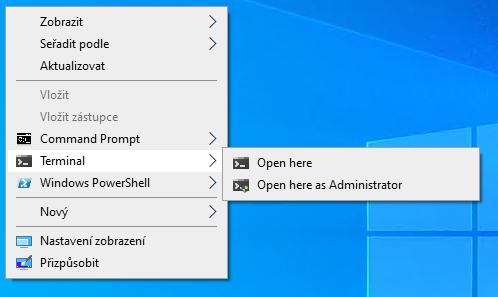
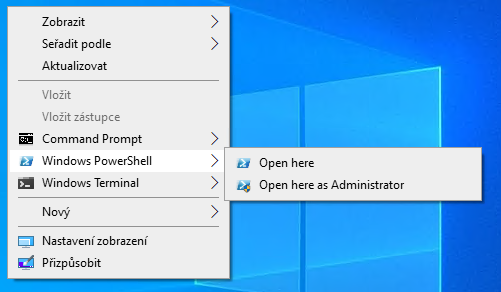
Terminal to Windows Terminal update.

diff --git a/README.md b/README.md
@@ -1,5 +1,5 @@
 # PowerShell "Open Here" Module
-PowerShell module that enables "Open here" shortcuts functionality for Windows PowerShell, Terminal and CMD.
+PowerShell module that enables "Open here" shortcuts functionality for Windows PowerShell, Windows Terminal and CMD.
 
 # Introduction
 OpenHere is a PowerShell module for installation of shell shortcuts into the context menu (_the right mouse button click or [the menu key](https://en.wikipedia.org/wiki/Menu_key)_) for Microsoft Windows.
@@ -10,7 +10,7 @@ The shortcuts will open desired shell in the current location, e.g. for Windows 
 
 
 # Main features
-- Shortcut installation/removal for Windows PowerShell, Terminal, CMD
+- Shortcut installation/removal for Windows PowerShell, Windows Terminal, CMD
 - Open here with non-elevated privileges shortcut.
 - Open here with elevated privileges shortcut.
 - Default setting for easy-to-use.
@@ -35,13 +35,13 @@ Set-OpenHereShortcut -ShortcutType:WindowsPowerShell
 
 For other shortcuts just type:
 ```powershell
-Set-OpenHereShortcut -ShortcutType:Terminal
+Set-OpenHereShortcut -ShortcutType:WindowsTerminal
 Set-OpenHereShortcut -ShortcutType:CMD
 ```
 
 For a custom shortcut & command names, fill parameters accordingly:
 ```powershell
-Set-OpenHereShortcut -ShortcutType:Terminal -RootName 'Old PowerShell' -OpenHere 'I''m lazy' -OpenHereAsAdmin 'I''m lazy admin`
+Set-OpenHereShortcut -ShortcutType:WindowsPowerShell -RootName 'Old PowerShell' -OpenHere 'I''m lazy' -OpenHereAsAdmin 'I''m lazy admin`
 ```
 
 or the equivalent with the escape backtick:
@@ -56,13 +56,13 @@ Set-OpenHereShortcut -ShortcutType:WindowsPowerShell`
 
 To remove the shortcut with any settings, just call:
 ```powershell
-Remove-OpenHereShortcut -ShortcutType:Terminal
+Remove-OpenHereShortcut -ShortcutType:WindowsTerminal
 ```
 
 For more details about setting/removing process, type:
 ```powershell
-Set-OpenHereShortcut -ShortcutType:Terminal -Verbose
-Remove-OpenHereShortcut -ShortcutType:Terminal -Verbose
+Set-OpenHereShortcut -ShortcutType:WindowsTerminal -Verbose
+Remove-OpenHereShortcut -ShortcutType:WindowsTerminal -Verbose
 ```
 respectively. 
 
@@ -72,7 +72,7 @@ Get-Help Set-OpenHereShortcut -Examples
 ```
 
 # Notes
-Microsoft Terminal doesn't responds to RunAs request from the context menu. This problem is under investigation.
+Windows Terminal doesn't responds to RunAs request from the context menu. This problem is under investigation.
 
 # FAQ
 ### Are there any plans to extend the functionality of this module?
